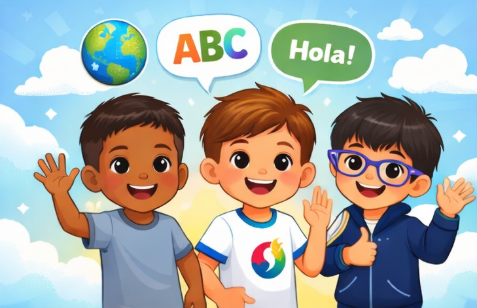
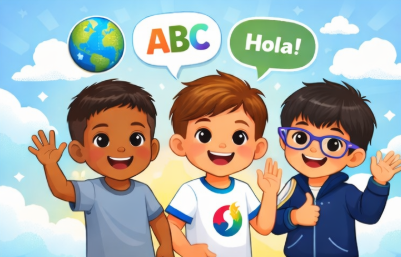
need-to-correct

diff --git a/project/styles/main.css b/project/styles/main.css
@@ -43,6 +43,7 @@ img:hover {
 }
 
 /* ---------- HEADER ---------- */
+
 header {
     background: white;
     padding: 2px 50px;
@@ -109,6 +110,13 @@ h1 a {
     height: auto;
 }
 
+.wave-top {
+    position: relative;
+    background: var(--pastel-yellow);
+    width: 100%;
+    justify-self: center;
+}
+
 .container-curve {
     position: relative;
     background: linear-gradient(135deg, #CDE7F0, #E6D6F5);
@@ -164,6 +172,10 @@ h1 a {
 
 .hero-img {
     border-radius: 4px;
+    width: 500px;
+    border: 1px solid var(--primary-text);
+    margin-right: 20px;
+    margin-top: 20px;
 }
 
 /* ---------- CARDS ---------- */
@@ -234,6 +246,7 @@ h1 a {
 .sch-class {
     border: 1px solid rgb(0, 0, 0, 0.5);
     border-radius: 10px;
+    width: 500px;
 }
 
 /* ---------- FORMS ---------- */

diff --git a/project/index.html b/project/index.html
@@ -46,6 +46,12 @@
             </section>
 
             <section class="hero-curve">
+                <div class="wave-top">
+                    <svg viewBox="0 0 1440 150" preserveAspectRatio="none">
+                        <path d="M0,100 C360,20 1080,20 1440,100 L1440,0 L0,0 Z" fill="#ffffff"></path>
+                    </svg>
+                </div>
+
                 <section class="container">
                     <h2 class="section-title">We are</h2>
                     <div class="icon-row">

diff --git a/project/aboutus.html b/project/aboutus.html
@@ -16,7 +16,7 @@
 <body>
     <header>
         <img src="images/logo.jpg" alt="logo from the lenguage academy" loading="lazy" class="logo">
-        <div class="ncompany">Andrea´s Academy</div>
+        <h1 class="ncompany"><a href="index.html">Andrea´s Academy</a></h1>
         <nav>
             <a href="courses.html">Courses</a>
             <a href="aboutus.html">About Us</a>

diff --git a/project/contactus.html b/project/contactus.html
@@ -16,7 +16,7 @@
 <body>
     <header>
         <img src="images/logo.jpg" alt="logo from the lenguage academy" loading="lazy" class="logo">
-        <div class="ncompany">Andrea´s Academy</div>
+        <h1 class="ncompany"><a href="index.html">Andrea´s Academy</a></h1>
         <nav>
             <a href="courses.html">Courses</a>
             <a href="aboutus.html">About Us</a>

diff --git a/project/courses.html b/project/courses.html
@@ -16,7 +16,7 @@
 <body>
     <header>
         <img src="images/logo.jpg" alt="logo from the lenguage academy" loading="lazy" class="logo">
-        <div class="ncompany">Andrea´s Academy</div>
+        <h1 class="ncompany"><a href="index.html">Andrea´s Academy</a></h1>
         <nav>
             <a href="courses.html">Courses</a>
             <a href="aboutus.html">About Us</a>

diff --git a/project/english.html b/project/english.html
@@ -16,7 +16,7 @@
 <body>
     <header>
         <img src="images/logo.jpg" alt="logo from the lenguage academy" loading="lazy" class="logo">
-        <div class="ncompany">Andrea´s Academy</div>
+        <h1 class="ncompany"><a href="index.html">Andrea´s Academy</a></h1>
         <nav>
             <a href="courses.html">Courses</a>
             <a href="aboutus.html">About Us</a>

diff --git a/project/spanish.html b/project/spanish.html
@@ -16,7 +16,7 @@
 <body>
     <header>
         <img src="images/logo.jpg" alt="logo from the lenguage academy" loading="lazy" class="logo">
-        <div class="ncompany">Andrea´s Academy</div>
+        <h1 class="ncompany"><a href="index.html">Andrea´s Academy</a></h1>
         <nav>
             <a href="courses.html">Courses</a>
             <a href="aboutus.html">About Us</a>
